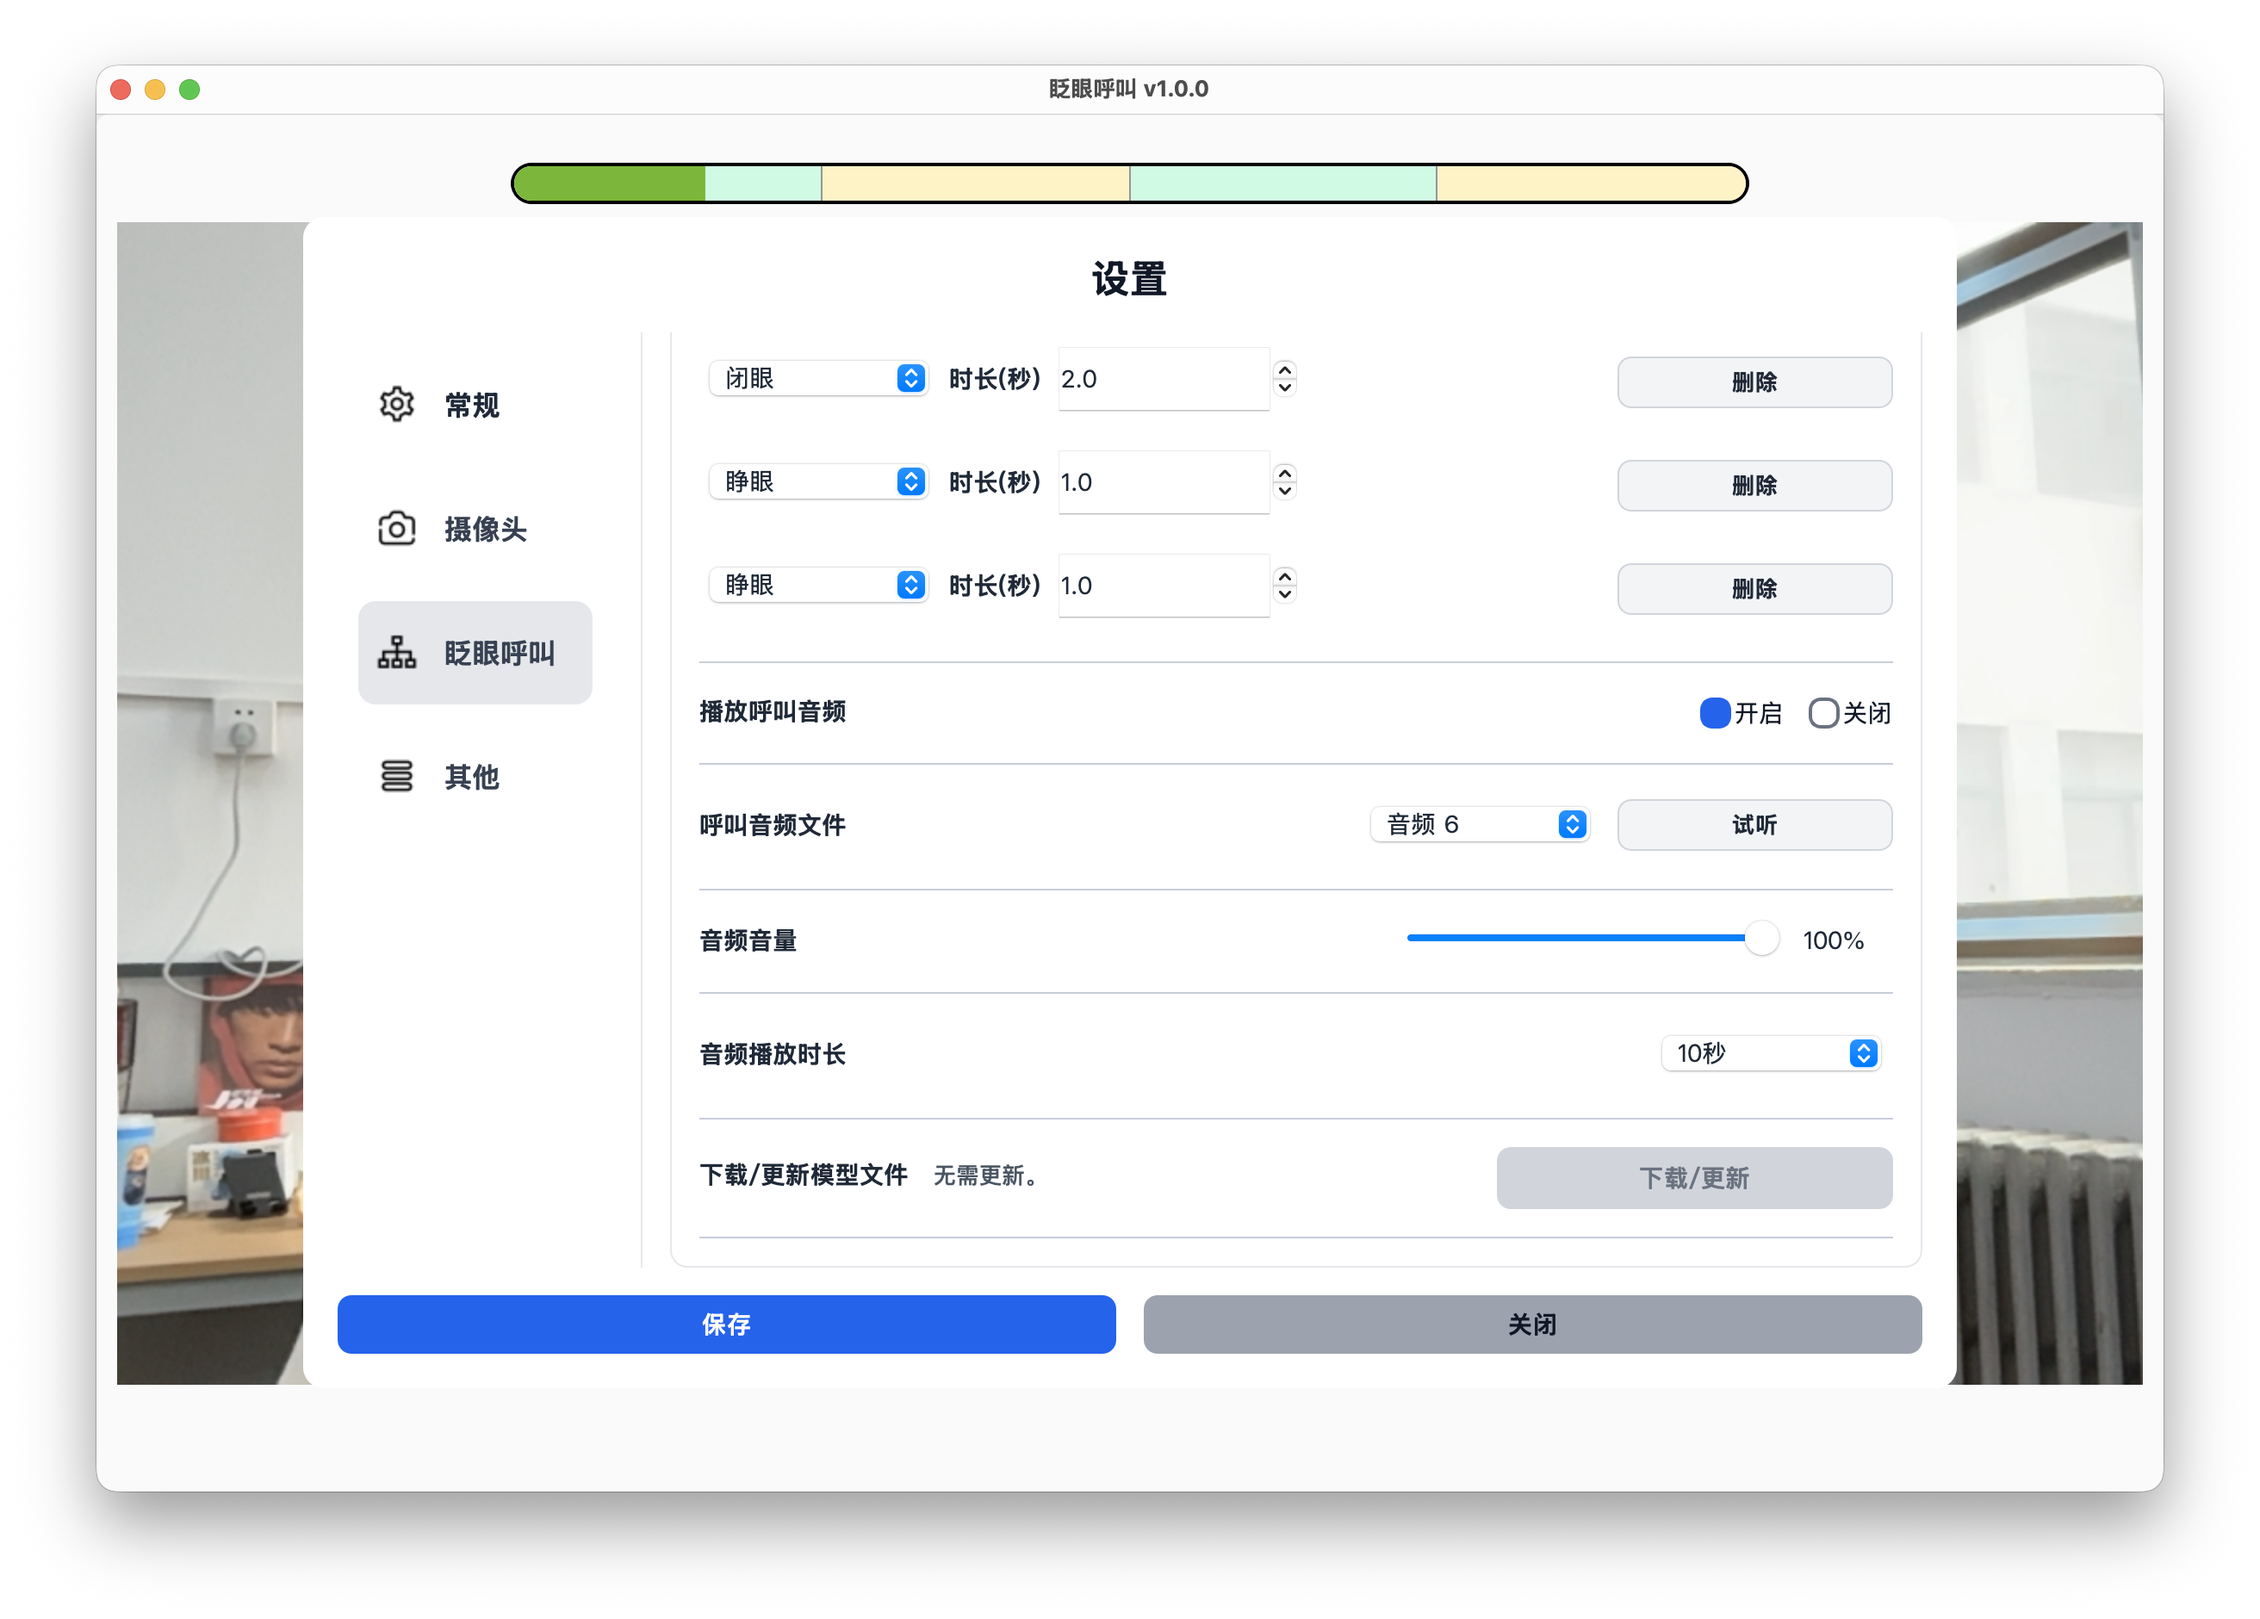
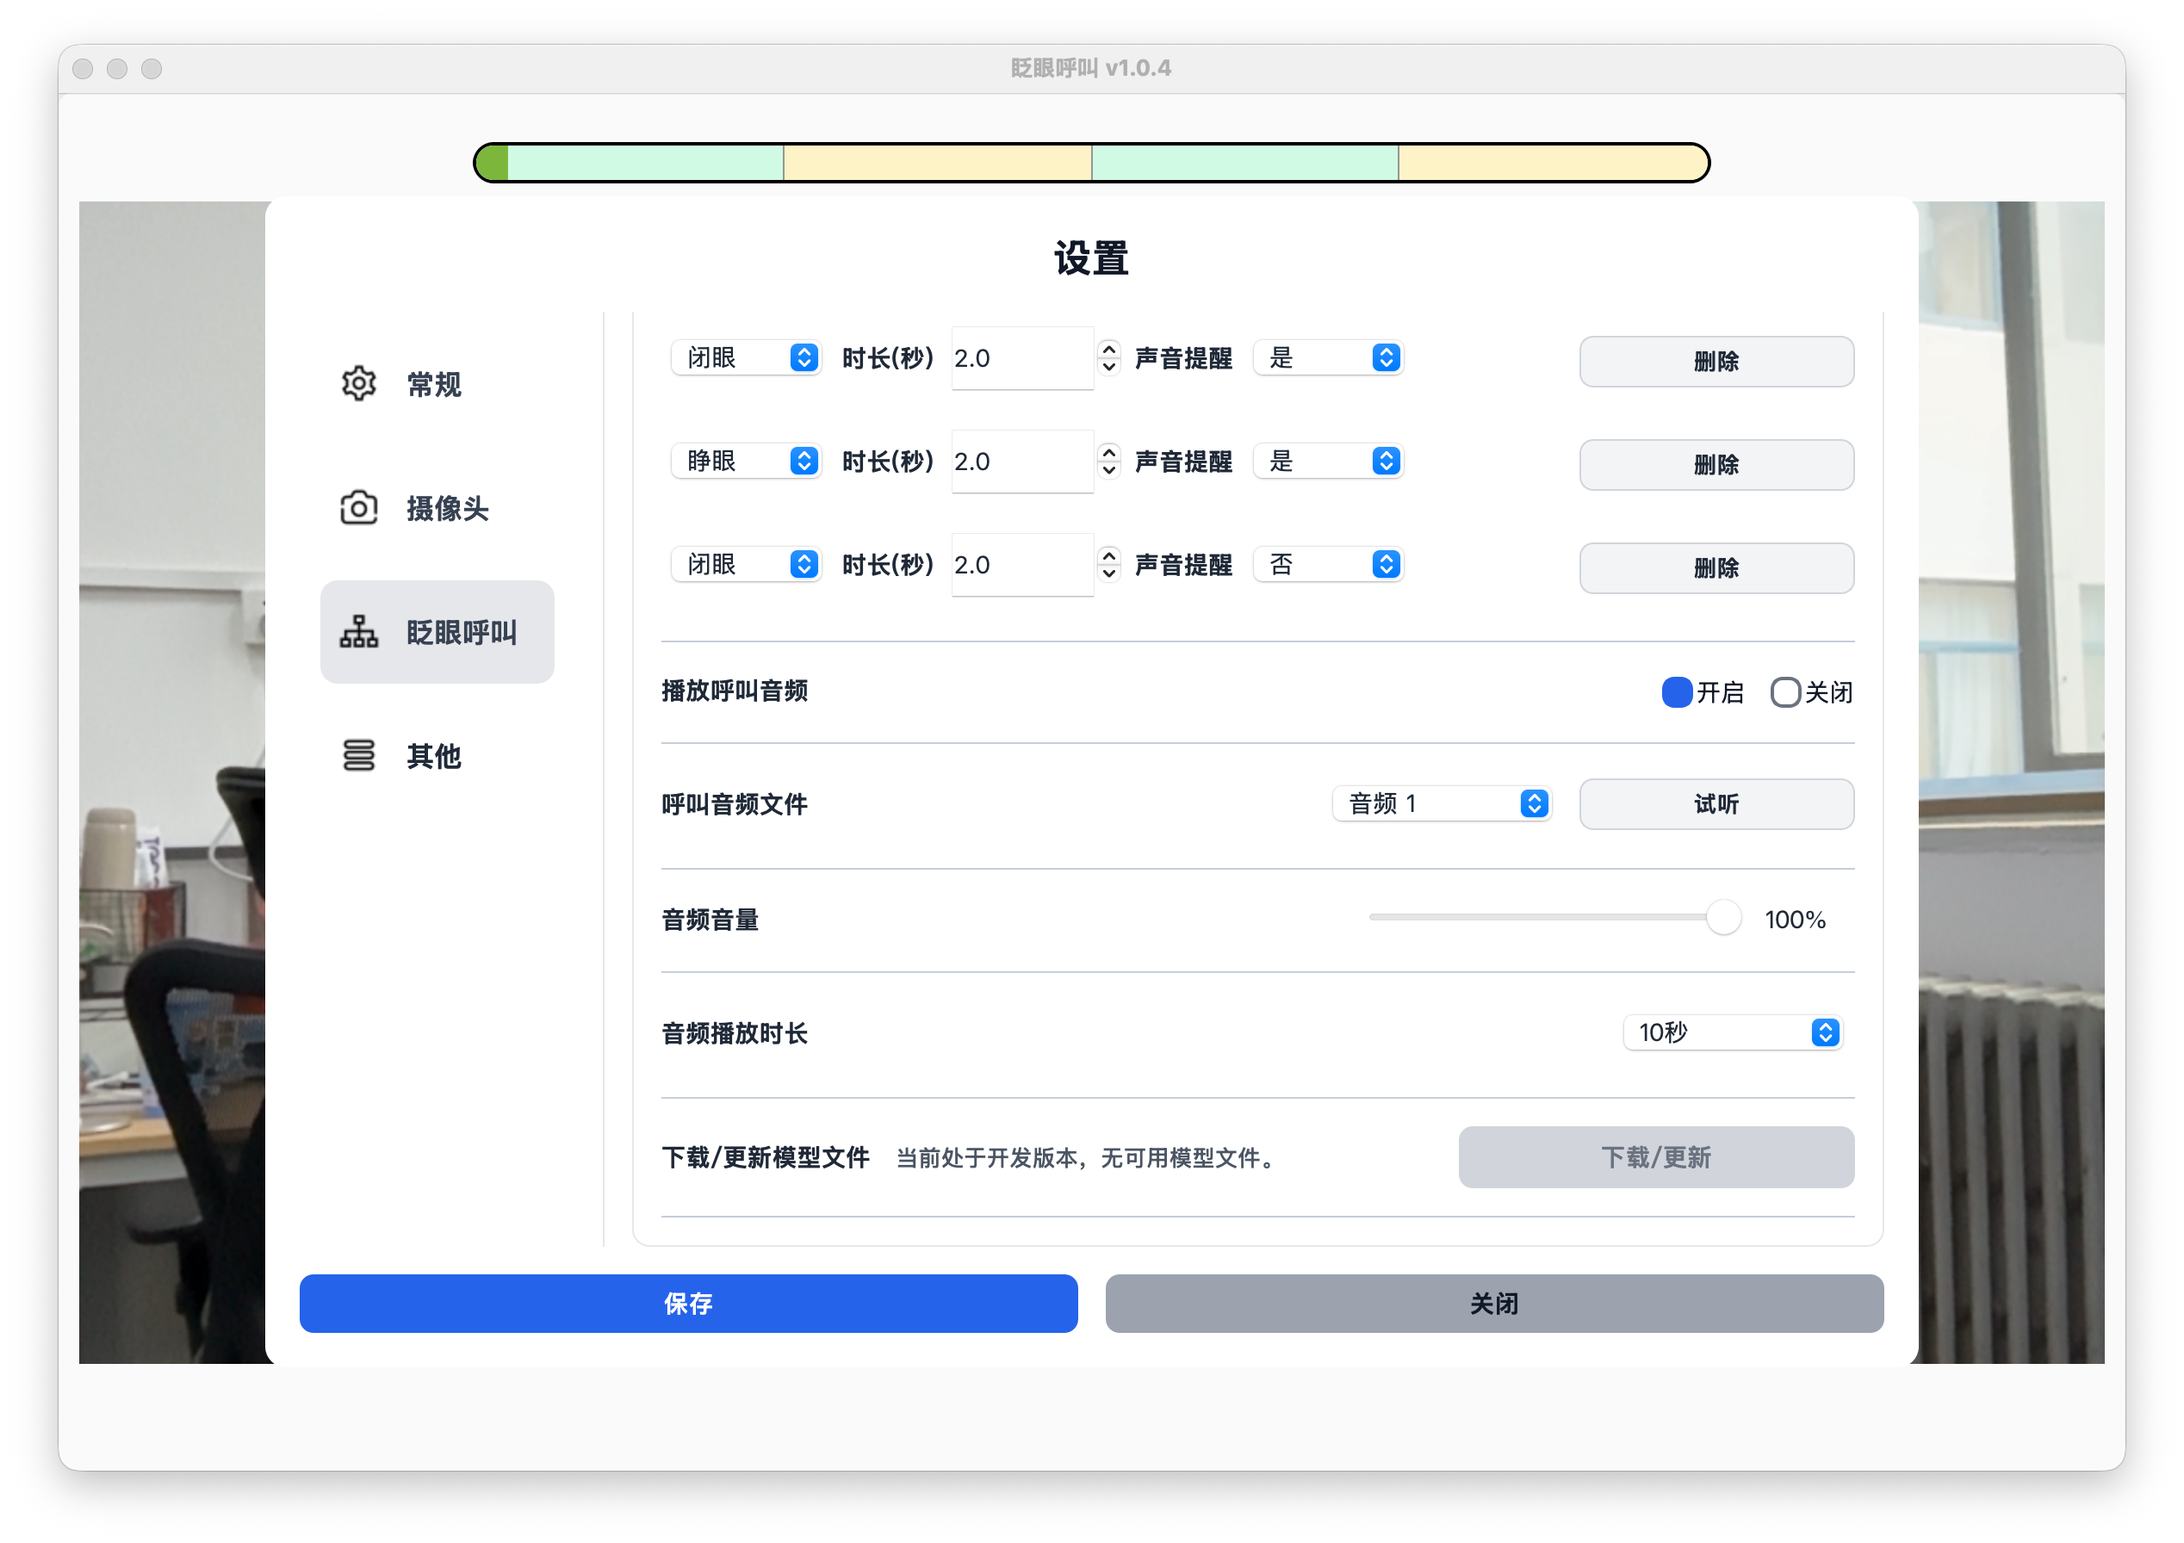
update user manual add new blink alert function

diff --git a/user_manual/docs/audio-alert.en.md b/user_manual/docs/audio-alert.en.md
@@ -1,6 +1,6 @@
 # Audio Alert
 
-Audio alert settings determine whether sound is played after a call is triggered, which ringtone is used, and how long the sound plays.
+Audio alert settings determine whether sound is played after a call is triggered, which ringtone is used, how long the sound plays, and whether a short prompt sound is played after a blink sequence step is completed.
 
 ## Turn the Call Sound On or Off
 
@@ -18,6 +18,16 @@ If the software is used for daily calling, it is recommended to keep this enable
 
 You can choose different ringtones under [Call Audio File].
 
+## Blink Sequence Step Prompt Sound
+![提示音](images/blink_sound.gif)
+In [Blink Sequence], each action step can have [Sound Prompt] enabled or disabled.
+
+When enabled, the software plays one short prompt sound after the patient completes the current eye-open or eye-closed step. This tells the patient that the current step is complete and they can continue with the next action.
+
+When disabled, no short prompt sound is played after that step is completed.
+
+This short prompt sound is separate from the ringtone played after a call is triggered. It is controlled by [Sound Prompt] for each action step.
+
 ## Preview the Ringtone
 
 Click [Preview] to hear the selected ringtone before saving the settings.
@@ -26,7 +36,7 @@ Click [Preview] to hear the selected ringtone before saving the settings.
 
 You can adjust the call volume inside the software.
 
-This only changes the software volume. It does not change the computer's system volume. Before daily use, make sure the computer or Bluetooth speaker volume is also set appropriately.
+This changes the software volume for both the call ringtone and the blink sequence step prompt sound. It does not change the computer's system volume. Before daily use, make sure the computer or Bluetooth speaker volume is also set appropriately.
 
 ## Set the Playback Duration
 

diff --git a/user_manual/docs/audio-alert.md b/user_manual/docs/audio-alert.md
@@ -1,6 +1,6 @@
 # 提醒声音设置
 
-提醒声音设置用于决定触发呼叫后是否播放声音、播放哪一种铃声，以及声音持续多久。
+提醒声音设置用于决定触发呼叫后是否播放声音、播放哪一种铃声、声音持续多久，以及眨眼序列步骤完成后是否播放短提示音。
 
 ## 开启或关闭呼叫声音
 
@@ -18,6 +18,15 @@
 
 可以在【呼叫音频文件】中选择不同铃声。
 
+## 眨眼序列步骤提示音
+![提示音](images/blink_sound.gif)
+在【眨眼序列】中，每个动作步骤都可以设置【声音提醒】。
+
+开启后，当病人完成当前睁眼或闭眼动作步骤时，软件会播放一次短提示音，提示病人当前步骤已经完成，可以继续进行下一个动作。
+
+关闭后，完成该步骤时不会播放短提示音。
+
+这个短提示音和触发呼叫后的铃声不同，由每个动作步骤的【声音提醒】单独控制。
 
 ## 试听铃声
 
@@ -27,7 +36,7 @@
 
 可以调整软件内的呼叫音量。
 
-这里调整的是软件音量，不会改变电脑系统音量。实际使用前，请确认电脑或蓝牙音箱本身的音量也合适。
+这里调整的是软件音量，会影响呼叫铃声和眨眼序列步骤短提示音，不会改变电脑系统音量。实际使用前，请确认电脑或蓝牙音箱本身的音量也合适。
 
 ## 设置播放时长
 
